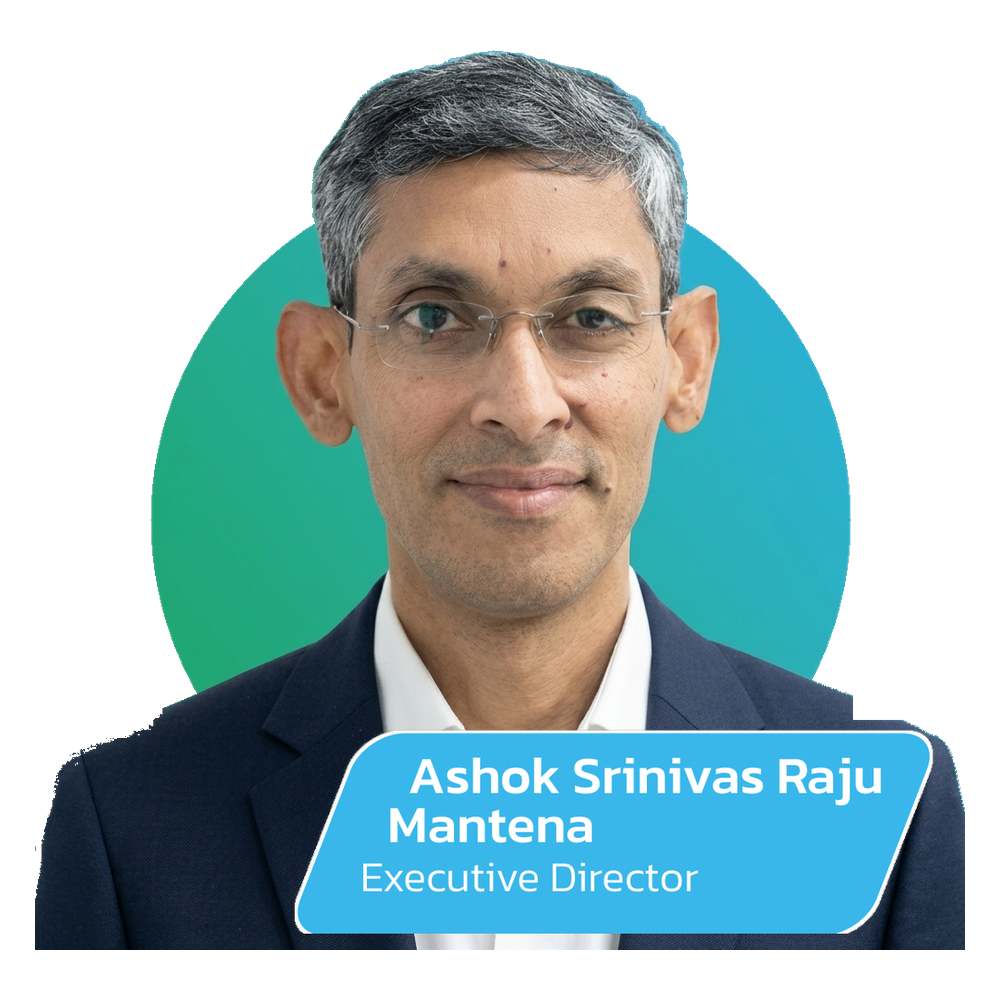
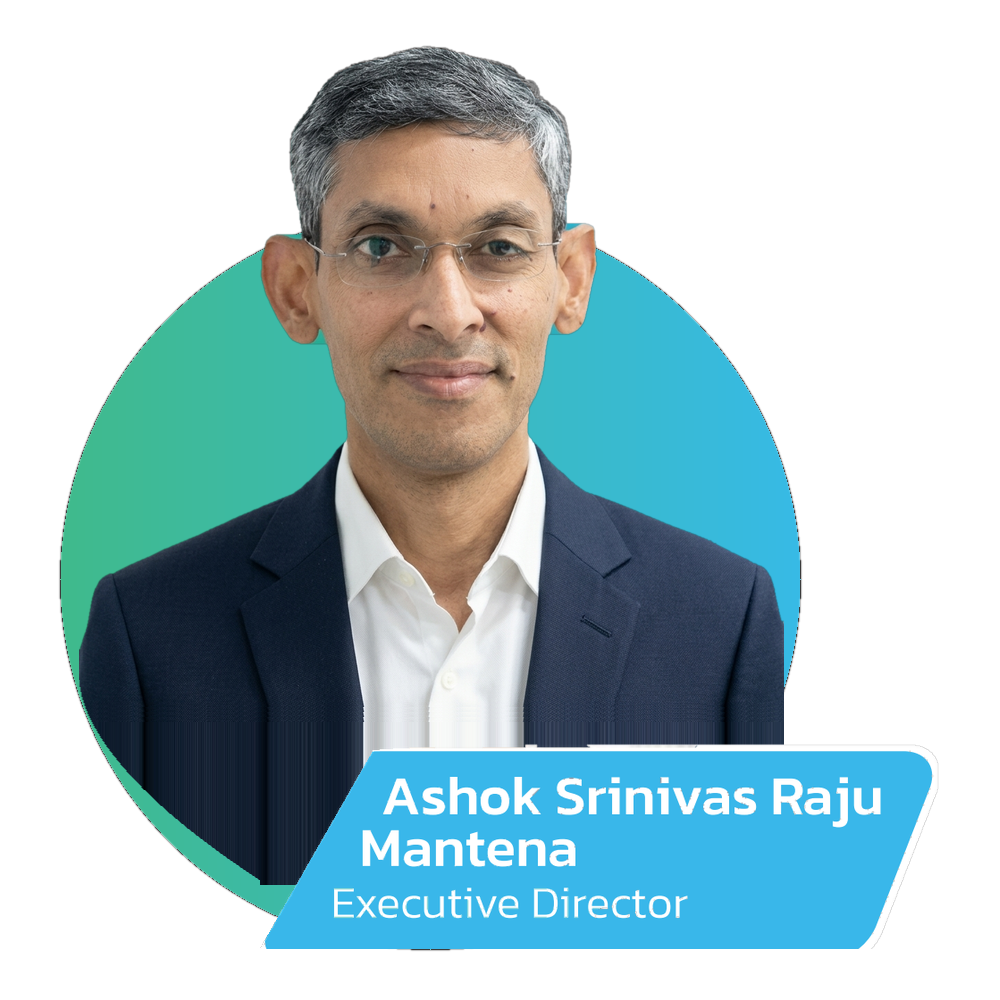
fix(directors): calibrate Ashok Mantena scale, alignment, and badge with board trio

diff --git a/about-us-hi.html b/about-us-hi.html
@@ -7790,7 +7790,7 @@
         <div class="board-card has-photo">
           <div class="board-portrait">
             <div class="board-photo">
-              <img src="assets/directors/rama-raju.png?v=4" alt="Sri M V Rama Raju - CMD, VPCL">
+              <img src="assets/directors/rama-raju.png?v=5" alt="Sri M V Rama Raju - CMD, VPCL">
             </div>
             <div class="board-badge">
               <h3>Sri M V Rama Raju</h3>
@@ -7802,7 +7802,7 @@
         <div class="board-card has-photo">
           <div class="board-portrait">
             <div class="board-photo">
-              <img src="assets/directors/ashok-srinivas-raju.png?v=4" alt="Ashok Srinivas Raju Mantena - Executive Director">
+              <img src="assets/directors/ashok-srinivas-raju.png?v=5" alt="Ashok Srinivas Raju Mantena - Executive Director">
             </div>
             <div class="board-badge">
               <h3>Ashok Srinivas Raju Mantena</h3>
@@ -7814,7 +7814,7 @@
         <div class="board-card has-photo">
           <div class="board-portrait">
             <div class="board-photo">
-              <img src="assets/directors/anand.png?v=4" alt="Anand Mantena - Executive Director">
+              <img src="assets/directors/anand.png?v=5" alt="Anand Mantena - Executive Director">
             </div>
             <div class="board-badge">
               <h3>Sri M Anand</h3>

diff --git a/about-us.html b/about-us.html
@@ -7788,7 +7788,7 @@
         <div class="board-card has-photo">
           <div class="board-portrait">
             <div class="board-photo">
-              <img src="assets/directors/rama-raju.png?v=4" alt="Sri M V Rama Raju - CMD, VPCL">
+              <img src="assets/directors/rama-raju.png?v=5" alt="Sri M V Rama Raju - CMD, VPCL">
             </div>
             <div class="board-badge">
               <h3>Sri M V Rama Raju</h3>
@@ -7800,7 +7800,7 @@
         <div class="board-card has-photo">
           <div class="board-portrait">
             <div class="board-photo">
-              <img src="assets/directors/ashok-srinivas-raju.png?v=4" alt="Ashok Srinivas Raju Mantena - Executive Director">
+              <img src="assets/directors/ashok-srinivas-raju.png?v=5" alt="Ashok Srinivas Raju Mantena - Executive Director">
             </div>
             <div class="board-badge">
               <h3>Ashok Srinivas Raju Mantena</h3>
@@ -7812,7 +7812,7 @@
         <div class="board-card has-photo">
           <div class="board-portrait">
             <div class="board-photo">
-              <img src="assets/directors/anand.png?v=4" alt="Anand Mantena - Executive Director">
+              <img src="assets/directors/anand.png?v=5" alt="Anand Mantena - Executive Director">
             </div>
             <div class="board-badge">
               <h3>Sri M Anand</h3>
